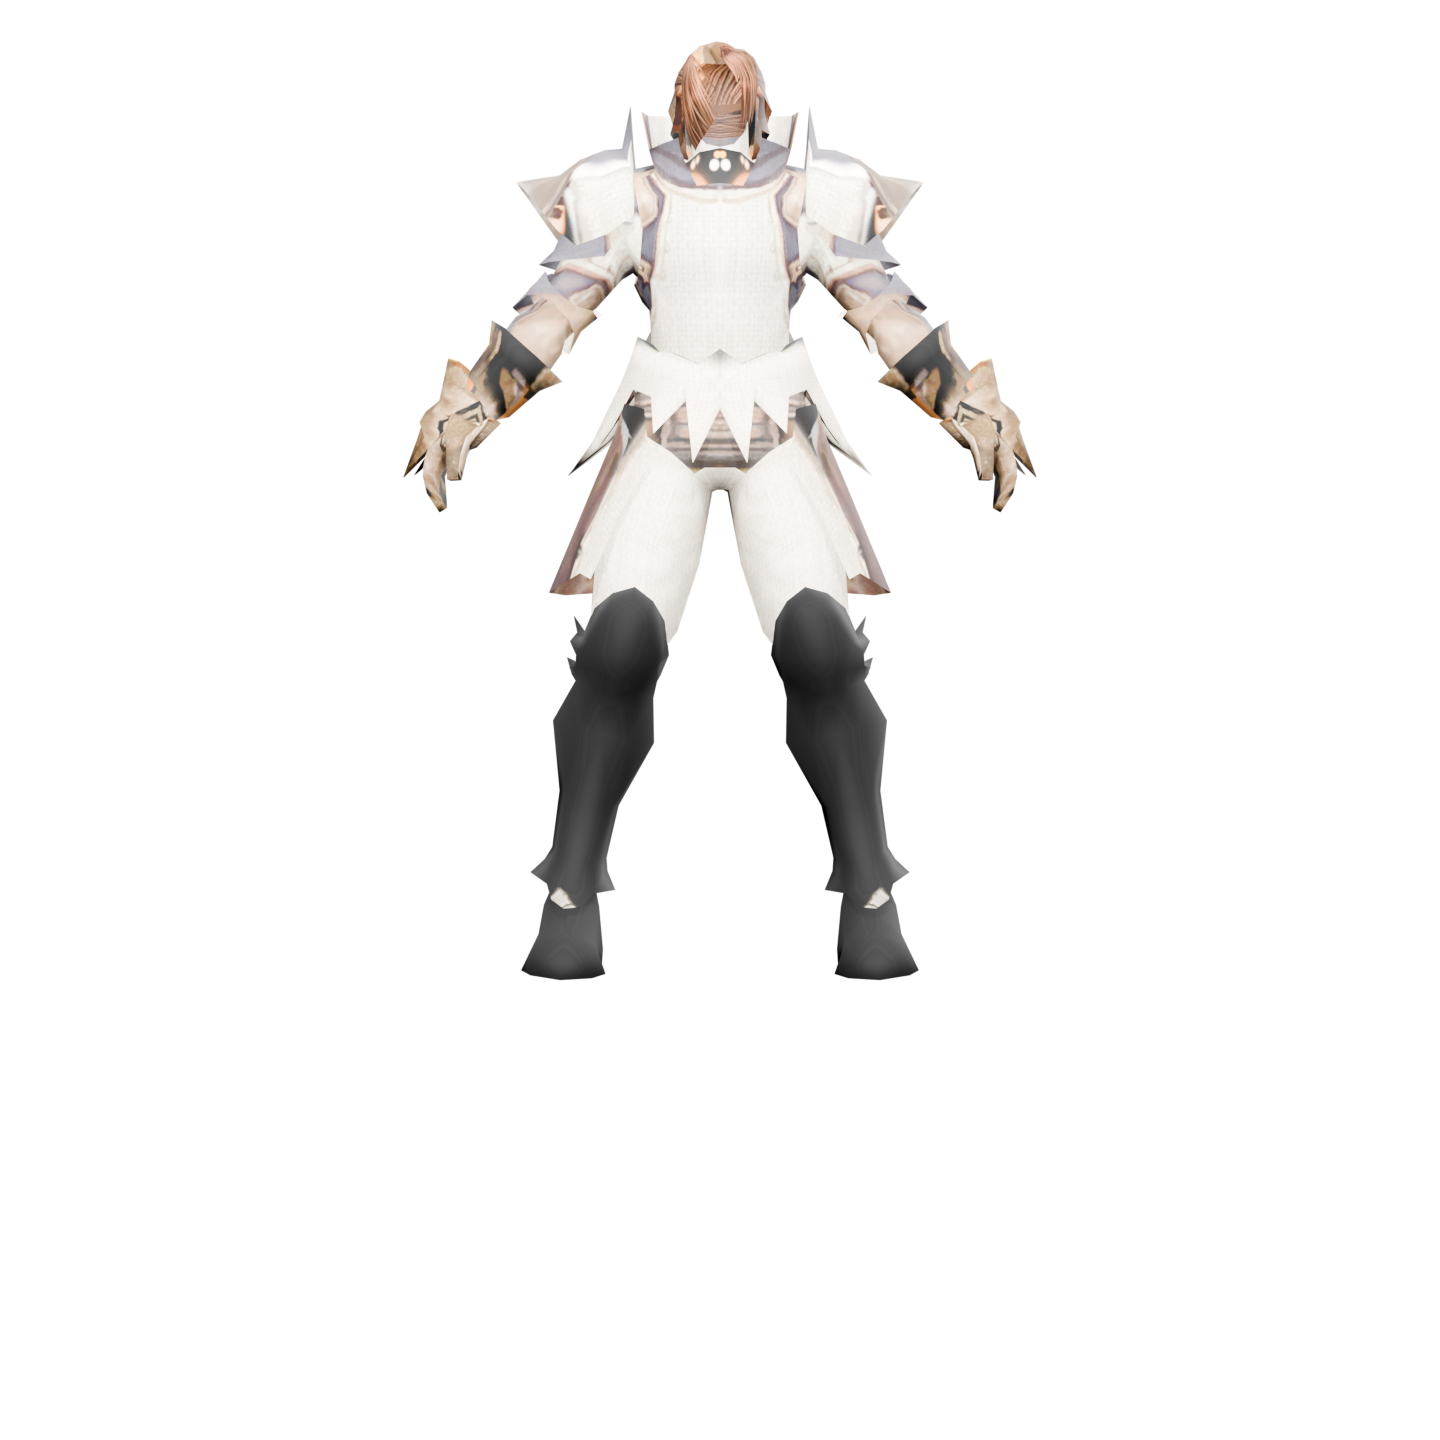
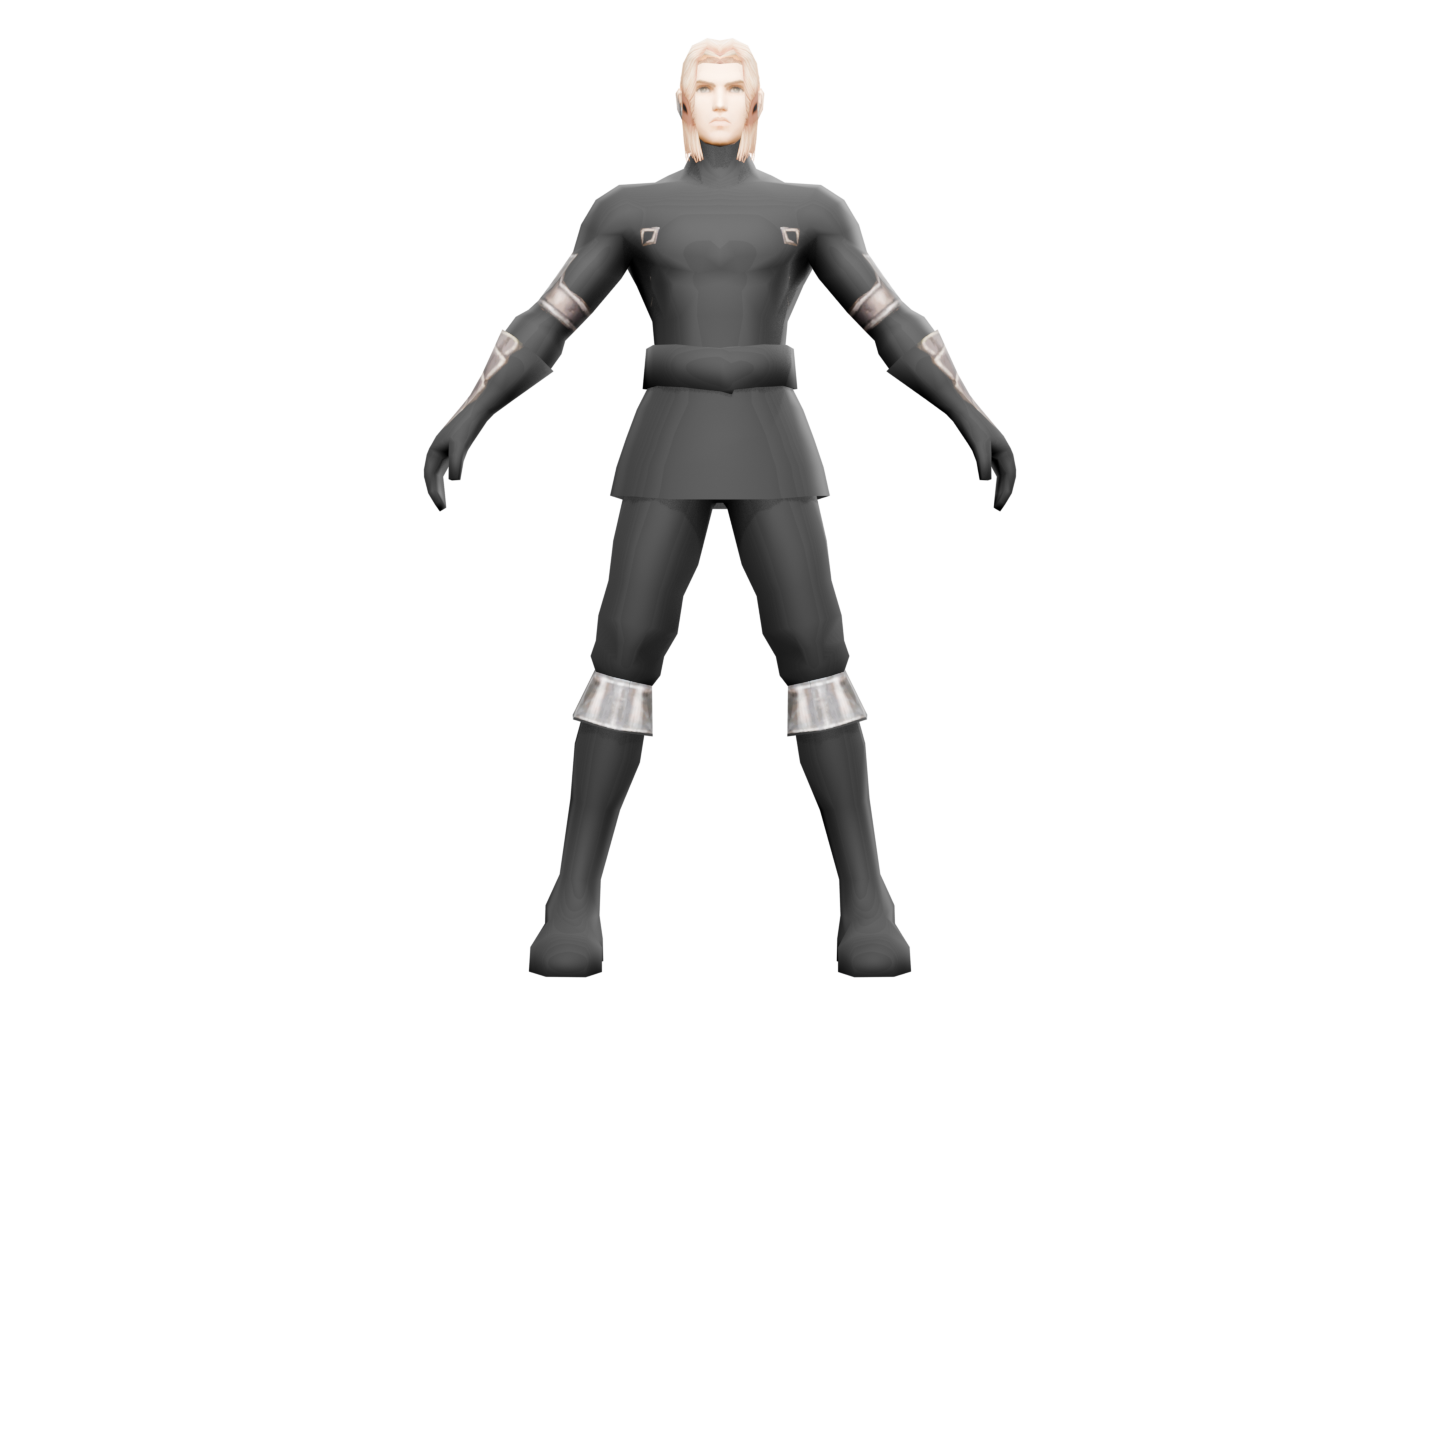
Refresh leather profile model from clean client

Changed region(s): [[0.2812, 0.0312, 0.7188, 0.6562]]

diff --git a/index.html b/index.html
@@ -8,7 +8,7 @@
   <meta http-equiv="Expires" content="0">
   <script>
     (function () {
-      const APP_VERSION = '20260426-telegram-84';
+      const APP_VERSION = '20260426-telegram-85';
       const url = new URL(window.location.href);
       window.__HD_DEBUG_GRID__ = url.searchParams.get('grid') === '1';
       if (url.searchParams.get('appv') !== APP_VERSION) {
@@ -19,8 +19,8 @@
     })();
   </script>  <title>Hollow Dominion</title>
   <script src="https://telegram.org/js/telegram-web-app.js"></script>
-  <script type="module" src="./assets/vendor/model-viewer.min.js?v=20260426-telegram-84"></script>
-  <link rel="stylesheet" href="common.css?v=20260426-telegram-84">
+  <script type="module" src="./assets/vendor/model-viewer.min.js?v=20260426-telegram-85"></script>
+  <link rel="stylesheet" href="common.css?v=20260426-telegram-85">
   <style>
     .screen-page {
       position: relative;
@@ -2278,7 +2278,7 @@
   <div class="toast" id="toast"></div>
 
 <script src="item-catalog.js?v=20260426-telegram-62"></script>
-<script src="common.js?v=20260426-telegram-84"></script>
+<script src="common.js?v=20260426-telegram-85"></script>
     <script>
       (async () => {
       const screenPage = document.querySelector('.screen-page');
@@ -2650,8 +2650,8 @@
                       <div class="profile-3d-viewer">
                         <model-viewer
                           id="profileModelViewer"
-                          src="./assets/models/profile_base.glb?v=20260426-telegram-84"
-                          poster="./assets/models/profile_base_poster.png?v=20260426-telegram-84"
+                src="./assets/models/profile_base.glb?v=20260426-telegram-85"
+                poster="./assets/models/profile_base_poster.png?v=20260426-telegram-85"
                           camera-controls
                           disable-pan
                           disable-zoom

diff --git a/scripts/build_profile_mannequin.py b/scripts/build_profile_mannequin.py
@@ -212,8 +212,8 @@ def import_l2_profile_part(gltf_path: Path, material):
 
 
 def add_l2_fighter_profile(variant: str) -> bool:
+    clean_root = find_l2_mfighter_clean_root()
     if variant == "base":
-        clean_root = find_l2_mfighter_clean_root()
         if clean_root:
             required_clean = [
                 clean_root / "MFighter_m000_u.gltf",
@@ -247,6 +247,44 @@ def add_l2_fighter_profile(variant: str) -> bool:
                 import_l2_profile_part(clean_root / "MFighter_m000_h.gltf", hair_mat)
                 import_l2_profile_part(clean_root / "MFighter_m000_f.gltf", face_mat)
                 return True
+    elif variant == "leather" and clean_root:
+        required_leather_clean = [
+            clean_root / "MFighter_m001_u.gltf",
+            clean_root / "MFighter_m001_l.gltf",
+            clean_root / "MFighter_m001_g.gltf",
+            clean_root / "MFighter_m001_b.gltf",
+            clean_root / "MFighter_m000_h.gltf",
+            clean_root / "MFighter_m000_f.gltf",
+        ]
+        if all(path.exists() for path in required_leather_clean):
+            tex_root = OUTER_ROOT / "$out" / "MFighter" / "Texture"
+            armor_u_tex = find_first_existing(tex_root / "MFighter_m001_t01_u_sp.png", tex_root / "MFighter_m001_t01_u_sp.tga")
+            armor_l_tex = find_first_existing(tex_root / "MFighter_m001_t01_l_sp.png", tex_root / "MFighter_m001_t01_l_sp.tga")
+            armor_g_tex = find_first_existing(tex_root / "MFighter_m001_t01_g_sp.png", tex_root / "MFighter_m001_t01_g_sp.tga")
+            armor_b_tex = find_first_existing(tex_root / "MFighter_m001_t01_b_sp.png", tex_root / "MFighter_m001_t01_b_sp.tga")
+            face_tex = find_first_existing(
+                tex_root / "MFighter_m000_t01_f.png",
+                tex_root / "MFighter_m000_t01_f.tga",
+            )
+            hair_tex = find_first_existing(
+                OUTER_ROOT / "$out" / "FFighter" / "Texture" / "FFighter_m000_t00_m00_bh_ori.png",
+                OUTER_ROOT / "$out" / "FFighter" / "Texture" / "FFighter_m000_t00_m00_bh_ori.tga",
+            )
+
+            armor_mat = make_image_material("L2LeatherM001U", armor_u_tex, metallic=0.02, roughness=0.78, specular=0.18) if armor_u_tex else make_material("L2LeatherM001UFallback", (0.43, 0.31, 0.20), metallic=0.10, roughness=0.66, specular=0.24)
+            legs_mat = make_image_material("L2LeatherM001L", armor_l_tex, metallic=0.02, roughness=0.80, specular=0.16) if armor_l_tex else make_material("L2LeatherM001LFallback", (0.47, 0.34, 0.22), metallic=0.10, roughness=0.68, specular=0.24)
+            gloves_mat = make_image_material("L2LeatherM001G", armor_g_tex, metallic=0.02, roughness=0.80, specular=0.16) if armor_g_tex else make_material("L2LeatherM001GFallback", (0.37, 0.27, 0.18), metallic=0.08, roughness=0.70, specular=0.22)
+            boots_mat = make_image_material("L2LeatherM001B", armor_b_tex, metallic=0.02, roughness=0.82, specular=0.14) if armor_b_tex else make_material("L2LeatherM001BFallback", (0.29, 0.21, 0.14), metallic=0.08, roughness=0.72, specular=0.22)
+            hair_mat = make_image_material("L2LeatherHairTex", hair_tex, metallic=0.0, roughness=0.84, specular=0.08, alpha_mode="HASHED") if hair_tex and hair_tex.exists() else make_material("L2LeatherHair", (0.35, 0.26, 0.16), metallic=0.02, roughness=0.76, specular=0.12)
+            face_mat = make_image_material("L2LeatherFaceTex", face_tex, metallic=0.0, roughness=0.68, specular=0.16) if face_tex and face_tex.exists() else make_material("L2LeatherFace", (0.72, 0.60, 0.48), metallic=0.0, roughness=0.58, specular=0.28)
+
+            import_l2_profile_part(clean_root / "MFighter_m001_u.gltf", armor_mat)
+            import_l2_profile_part(clean_root / "MFighter_m001_l.gltf", legs_mat)
+            import_l2_profile_part(clean_root / "MFighter_m001_g.gltf", gloves_mat)
+            import_l2_profile_part(clean_root / "MFighter_m001_b.gltf", boots_mat)
+            import_l2_profile_part(clean_root / "MFighter_m000_h.gltf", hair_mat)
+            import_l2_profile_part(clean_root / "MFighter_m000_f.gltf", face_mat)
+            return True
 
     root = find_l2_mfighter_root()
     if not root: